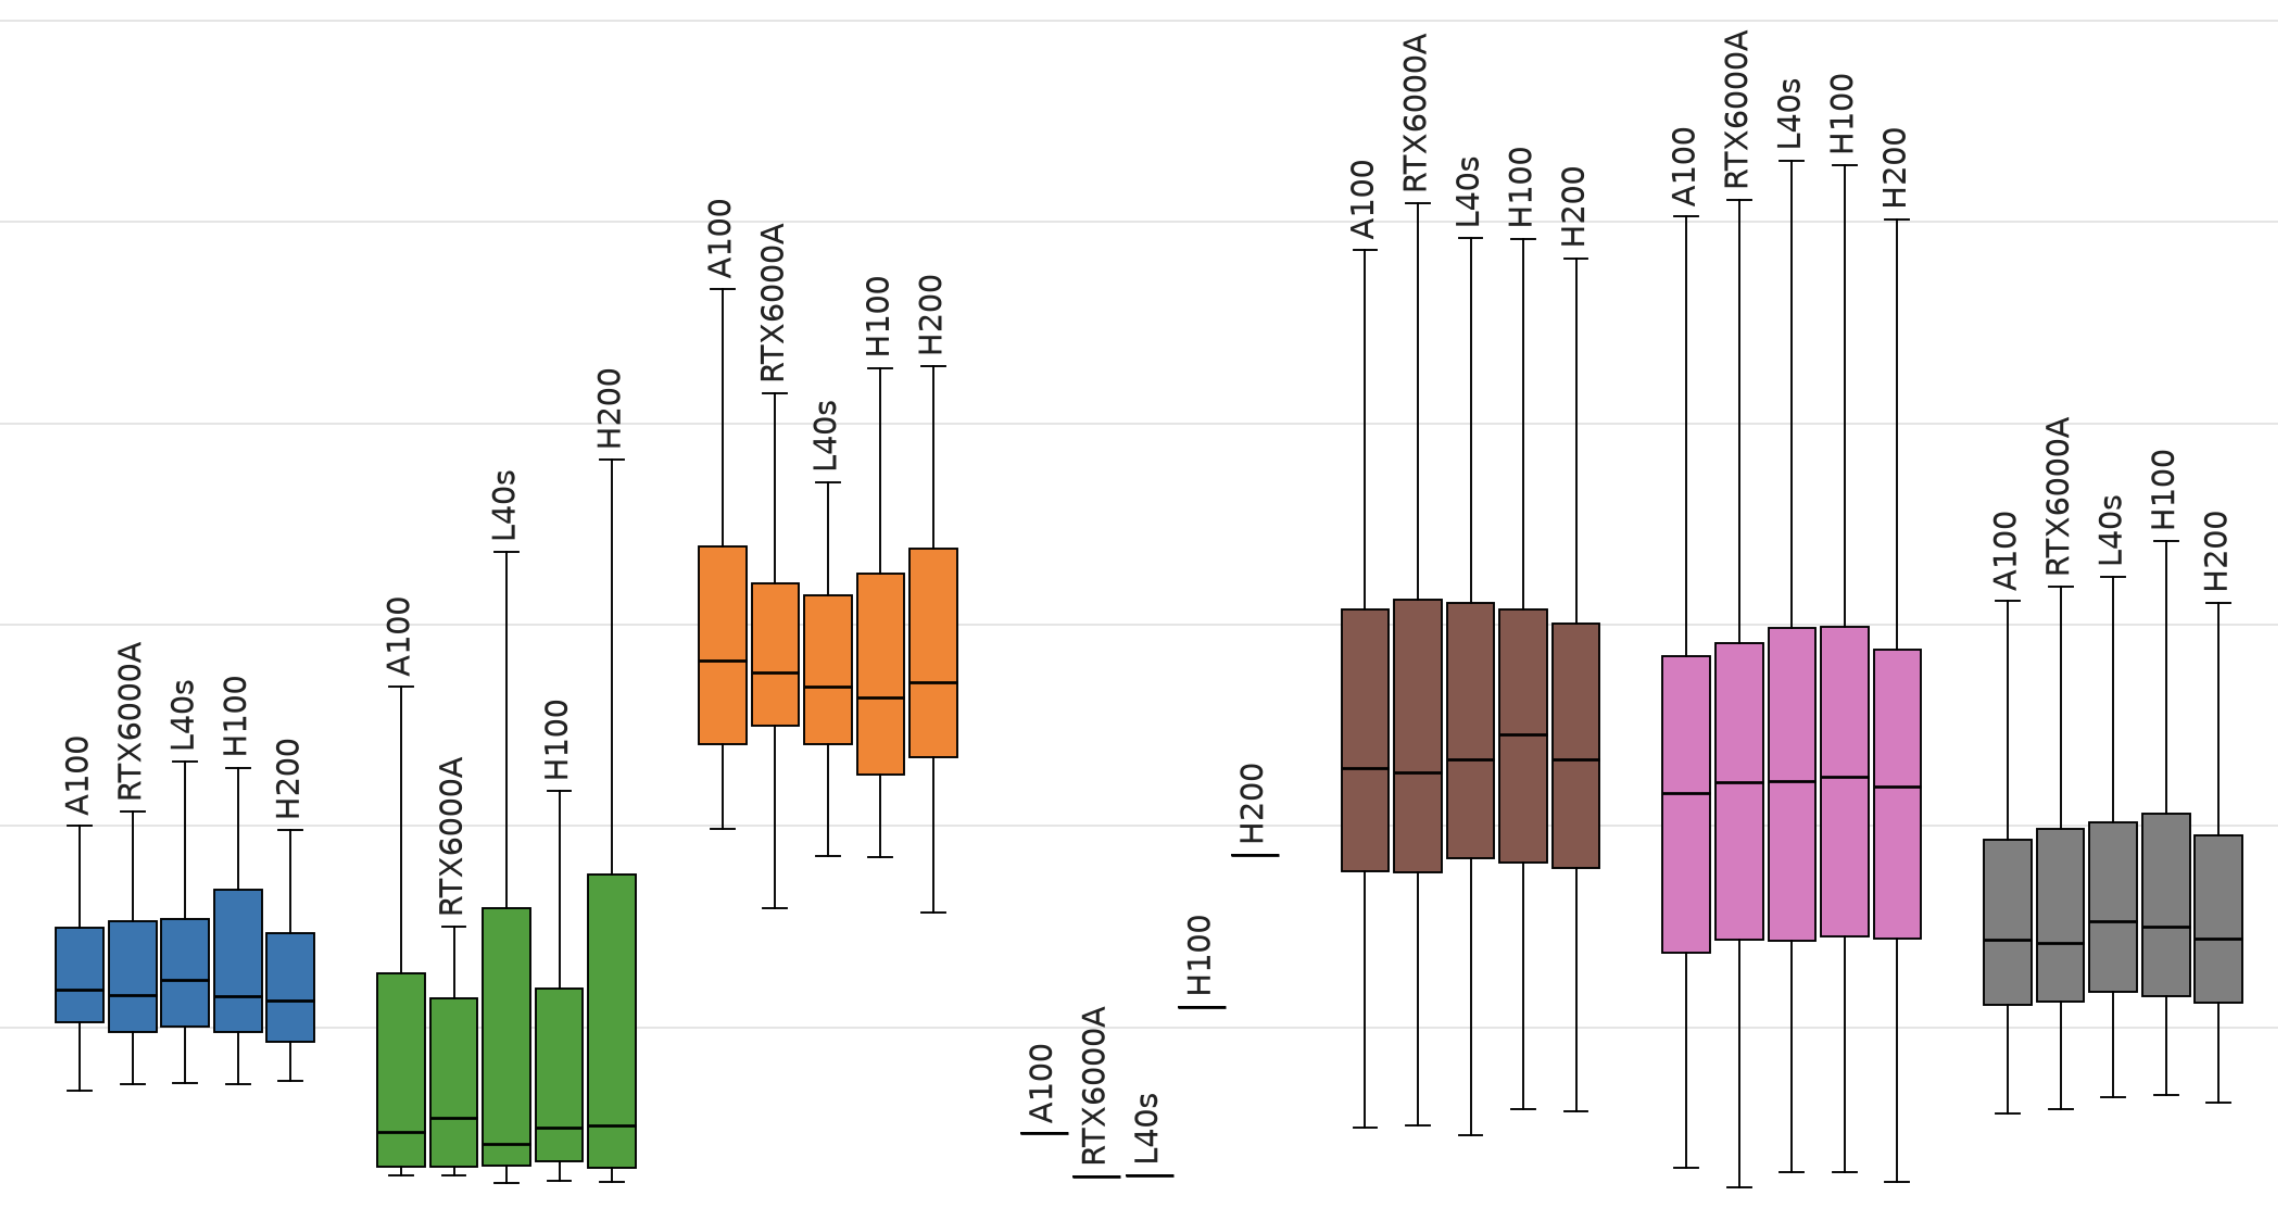
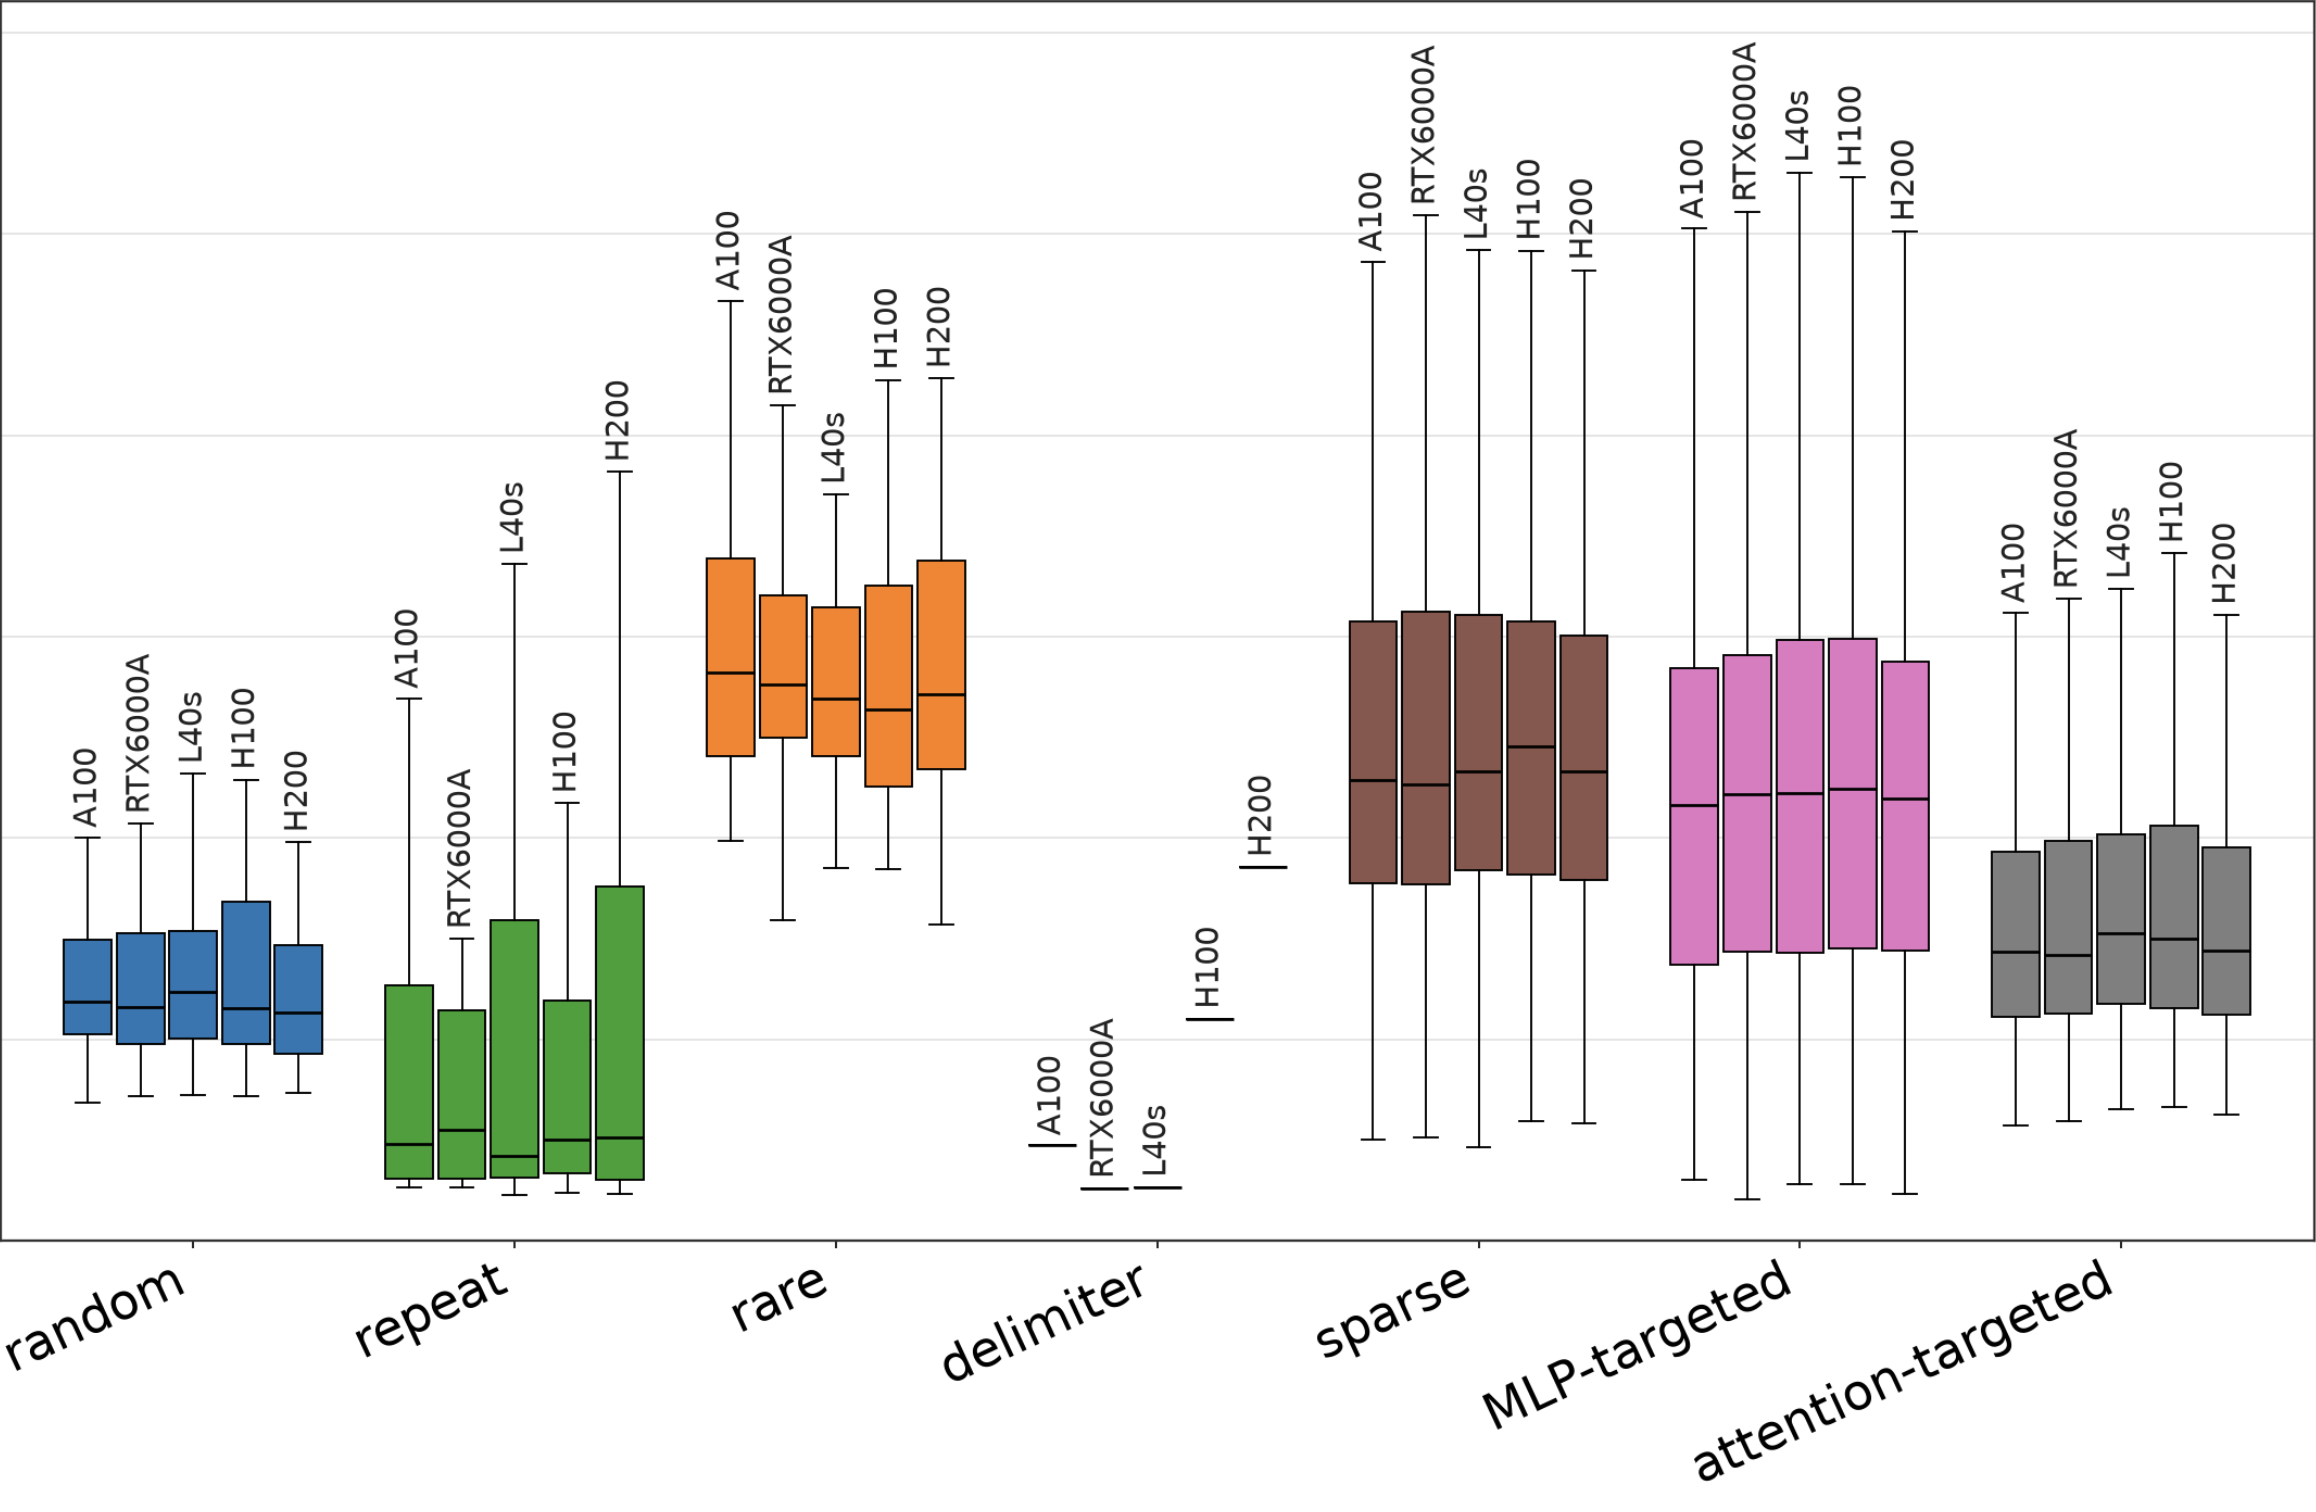
img update

diff --git a/research.md b/research.md
@@ -5,7 +5,7 @@ wide: true
 ---
 
 <div class="image-text-row-left">
-  <img src="{{ '/public/images/adversarialplaceholder.png' | relative_url }}" alt="Adversarial Probes" style="width: 45%; align-self: center;">
+  <img src="{{ '/public/images/adversarialplaceholder.png' | relative_url }}" alt="Adversarial Probes" style="width: 35%; align-self: center;">
   <div class="text-col">
     <h2>Not to Break, but to Attest: Adversarial Probes for
     Privacy-Preserving LLM Verification</h2>
